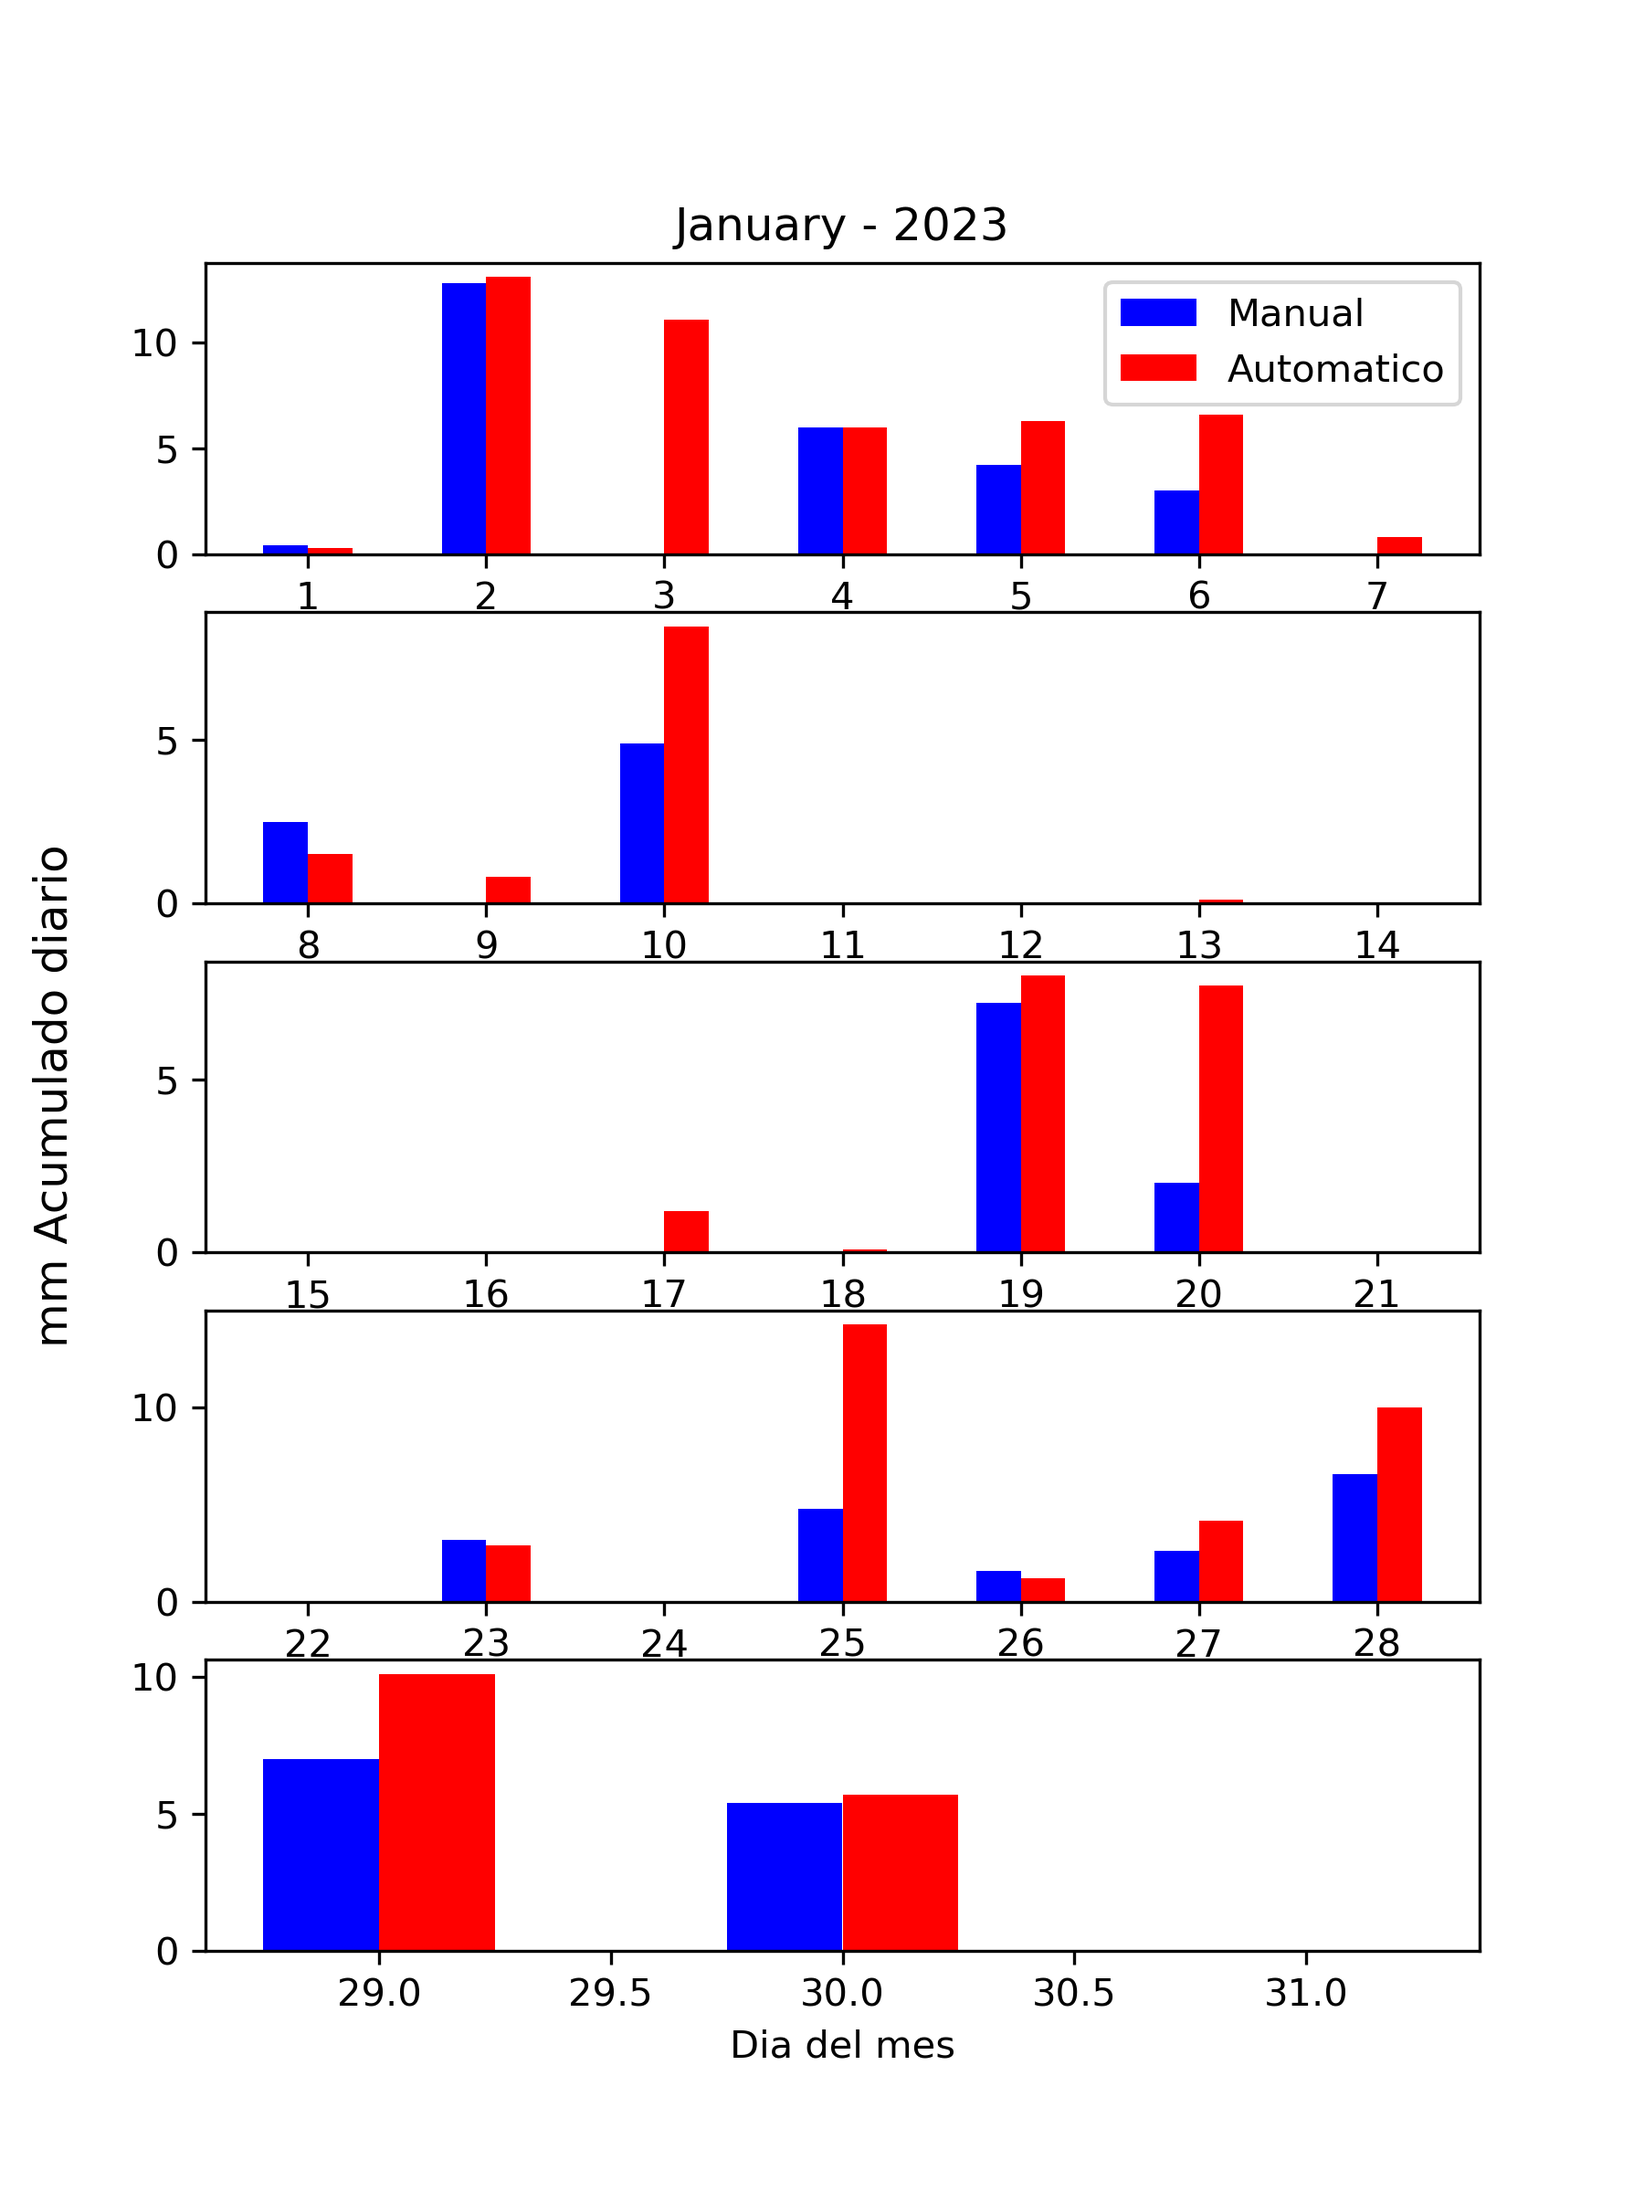
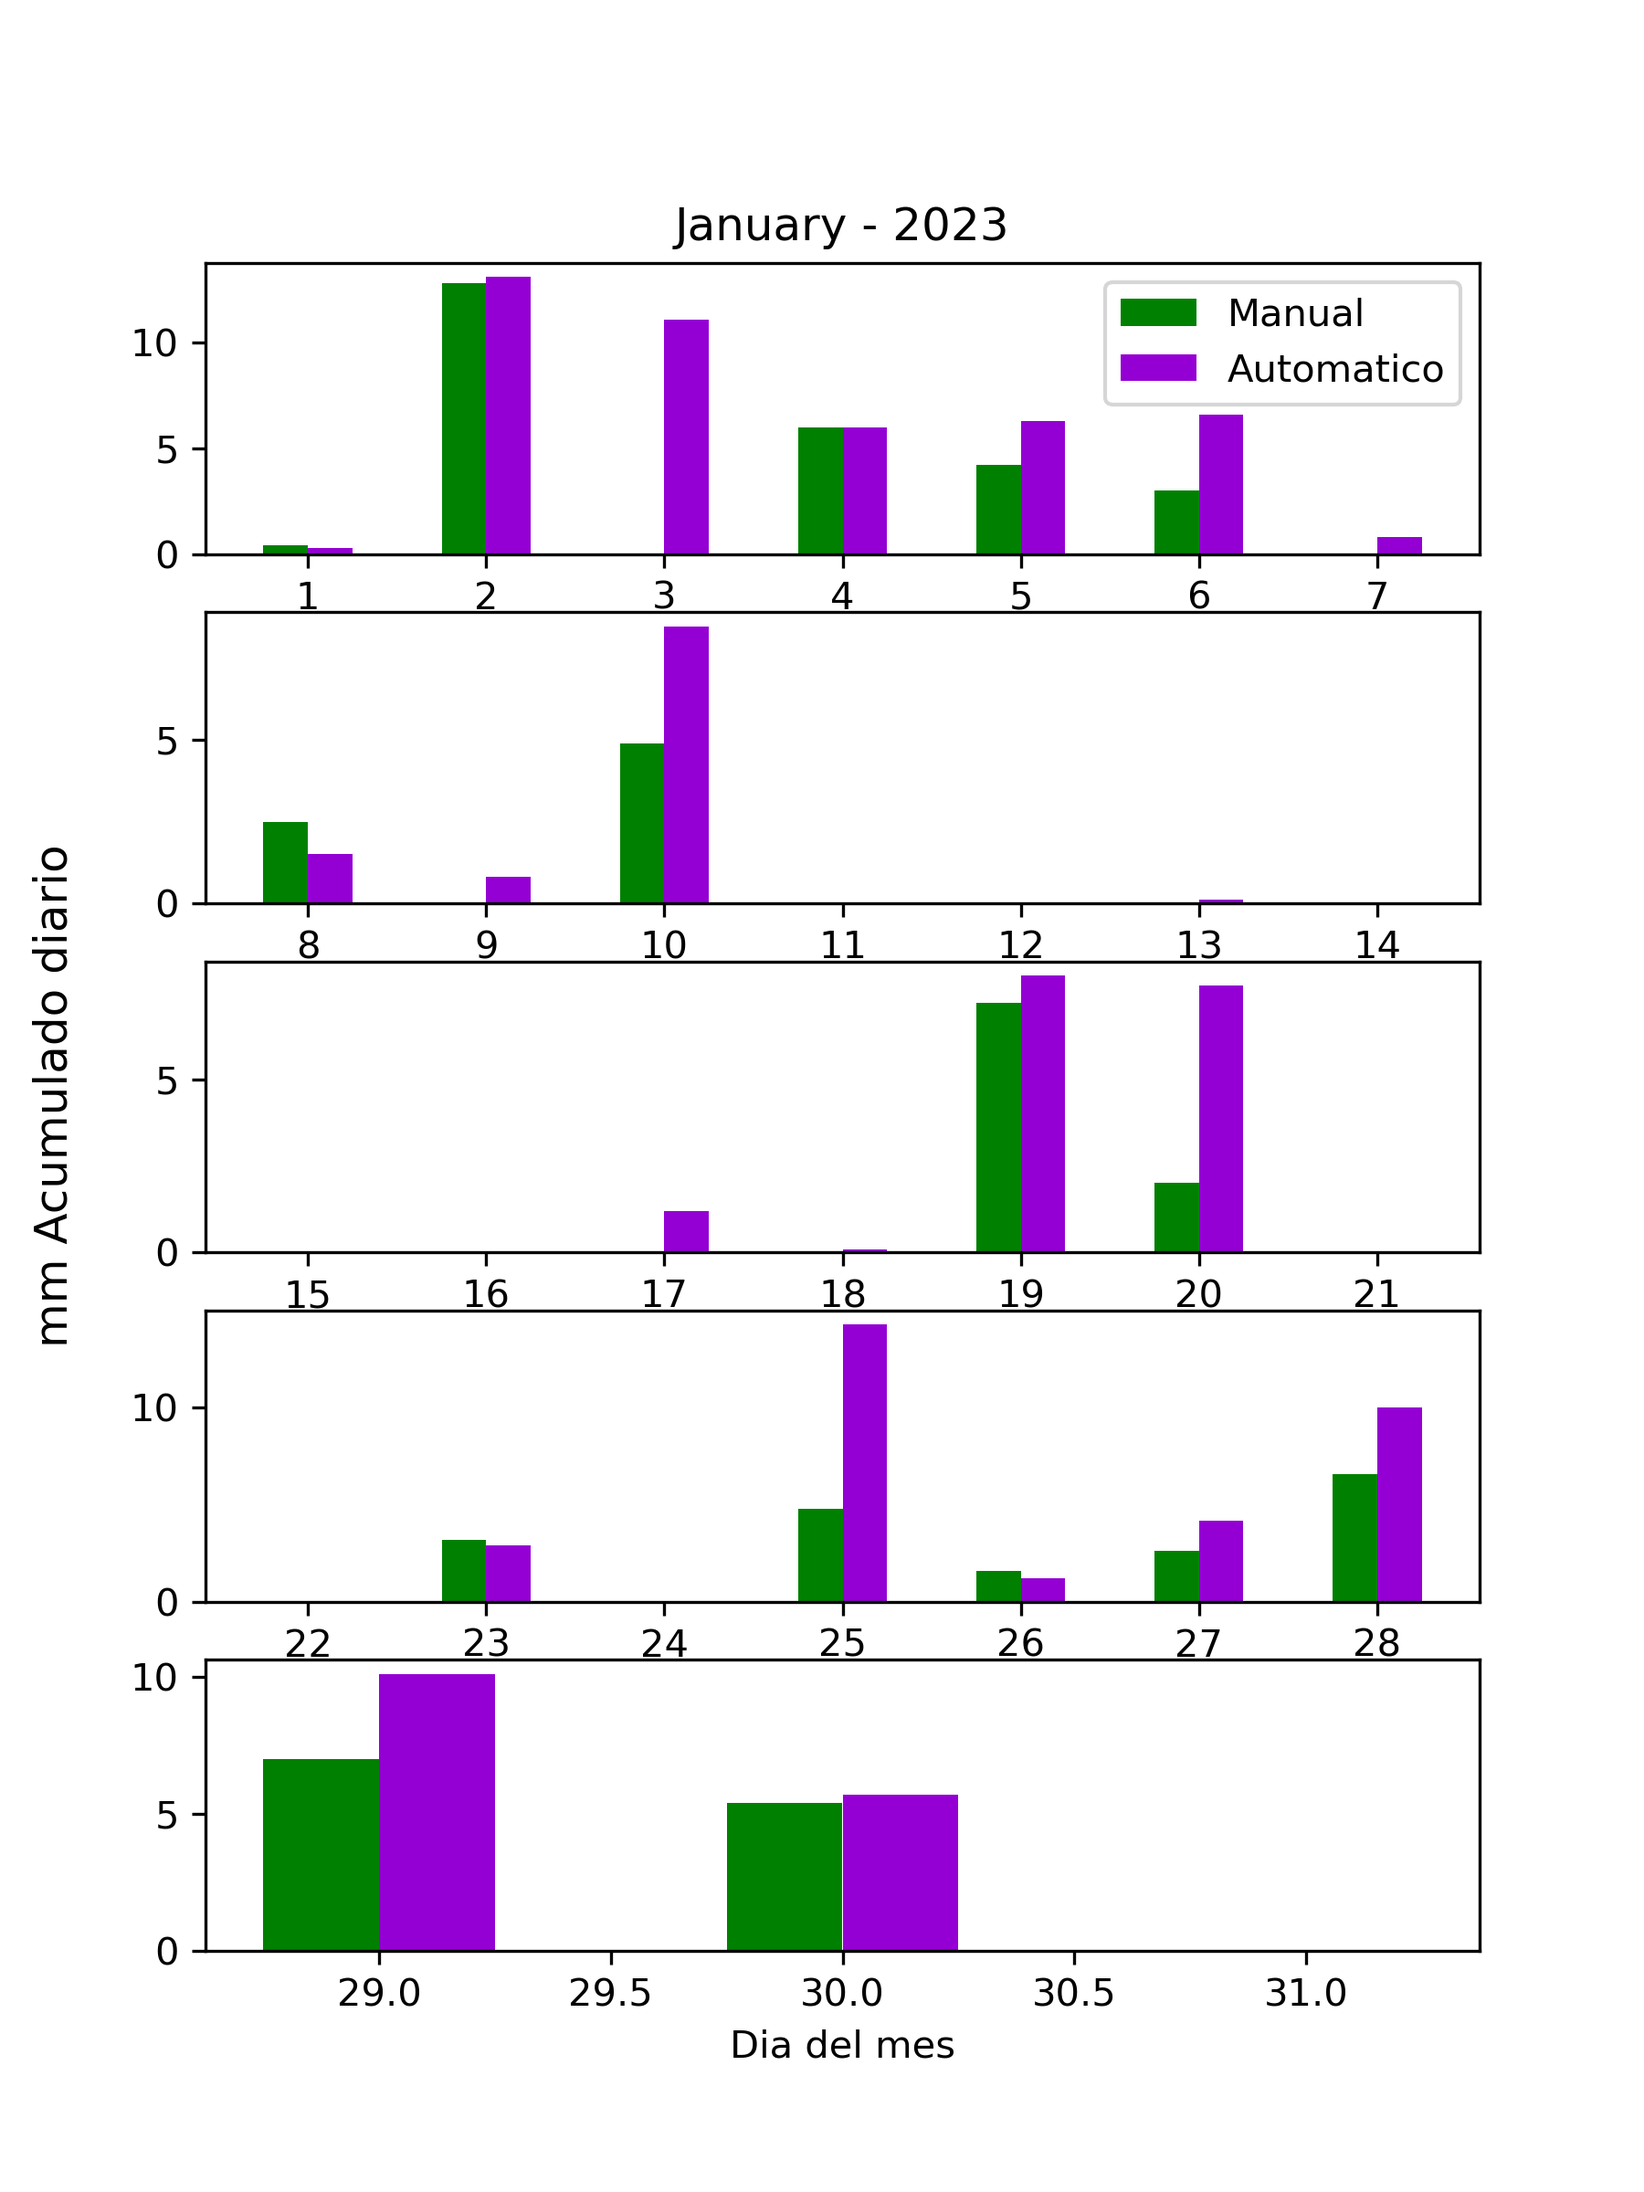
Colores

diff --git a/daily_plots.py b/daily_plots.py
@@ -60,8 +60,8 @@ for i in d.mes.unique():
         idxf = idxs[k][1]
         idx0 = idxs[k][0]
         pha = np.zeros(len(a_dias[idx0:idxf])) + .125
-        ax[k].bar(a_dias[idx0:idxf] - pha, a_manual[idx0:idxf], color = "b", width = 0.25, label = "Manual")
-        ax[k].bar(a_dias[idx0:idxf] + pha, a_auto[idx0:idxf], color = "r", width = 0.25, label = "Automatico")
+        ax[k].bar(a_dias[idx0:idxf] - pha, a_manual[idx0:idxf], color = "g", width = 0.25, label = "Manual")
+        ax[k].bar(a_dias[idx0:idxf] + pha, a_auto[idx0:idxf], color = "darkviolet", width = 0.25, label = "Automatico")
     ax[0].legend()
     ax[0].set_title(title)
     fig.supylabel("mm Acumulado diario")
